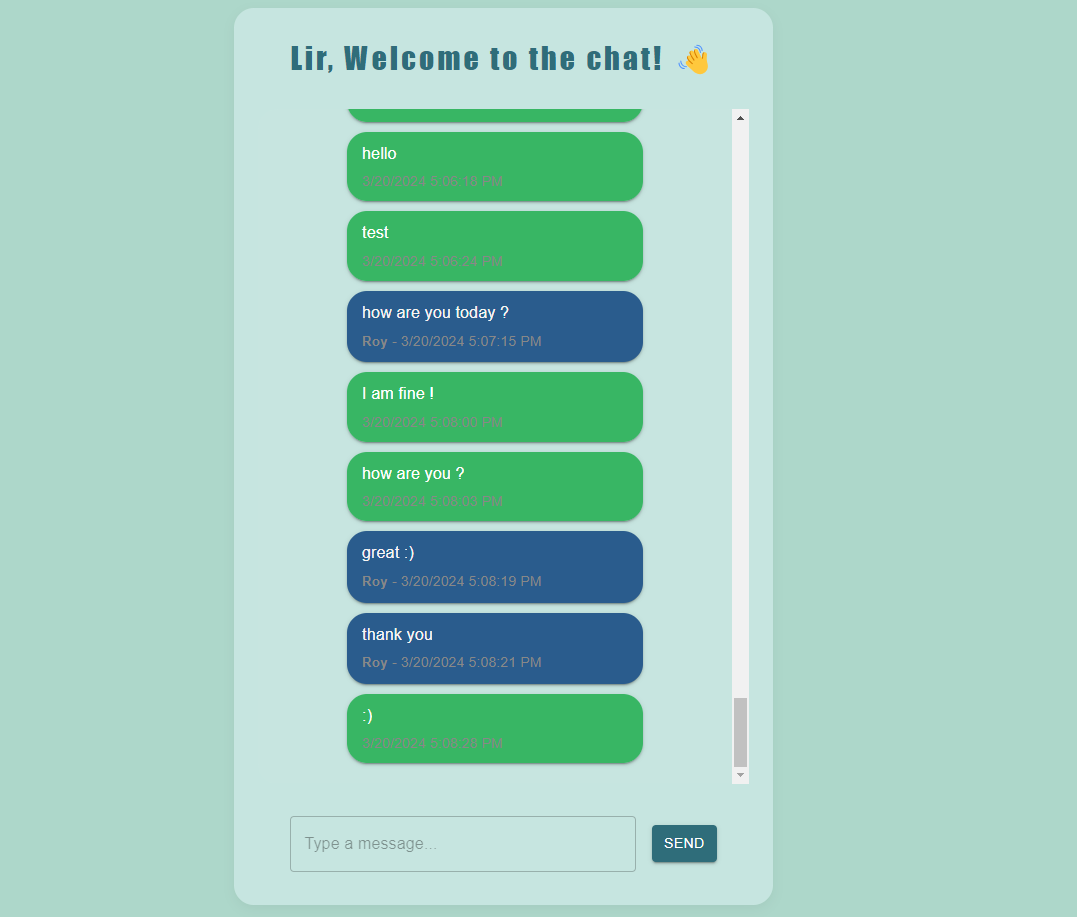
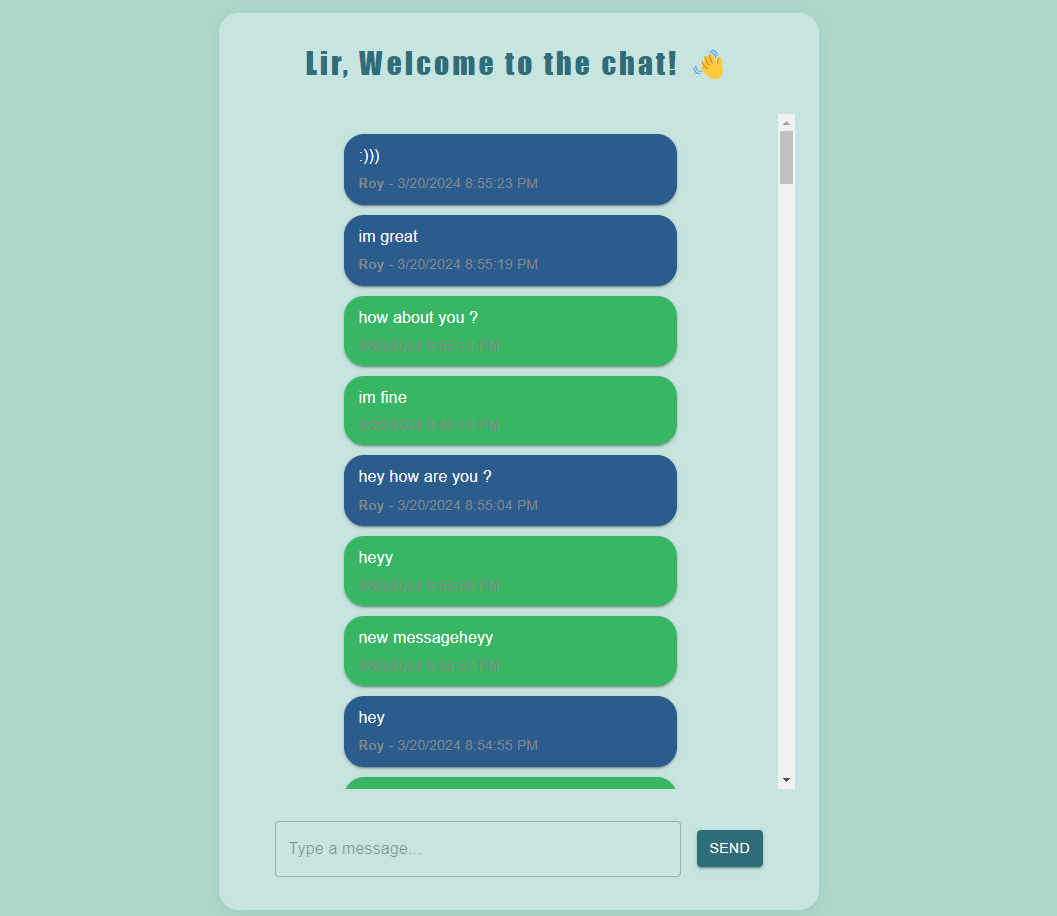
chat.tsx changes

Changed region(s): [[0.1873, 0.0, 0.7805, 1.0], [0.281, 0.8865, 0.4059, 0.9476]]

diff --git a/src/pages/chat/Chat.1.tsx b/src/pages/chat/Chat.1.tsx
@@ -7,36 +7,25 @@ import {
   Stack,
   Container,
 } from "@mui/material";
-import { useState, useEffect } from "react";
+import { useState } from "react";
 import { useLocation } from "react-router-dom";
-import "./ChatStyles.scss";
 import { useWebSocket } from "../../components/hooks/useWebSocket";
-import {
-  checkNotificationPermission,
-  showNotification,
-} from "../../components/helpers/notifications";
+import { showNotification } from "../../components/helpers/notifications";
 import DynamicMessages from "../../components/DynamicMessages";
 
-let limit = 20;
-let offset = 0;
-
-const Chat = () => {
-  const [messages, setMessages] = useState<Message[]>([]);
+export const Chat = () => {
   const [newMessage, setNewMessage] = useState("");
+  const messages = useFetchMessages(); // Using the custom hook for fetching messages
 
-  //gives you access to the current location object
   const location = useLocation();
-  const name = location.state?.name || "Unknown"; //extract the name
+  const name = location.state?.name || "Unknown"; // Extract the name
 
-  const onNewMessage = (message: Message) => {
+  const { sendMessage } = useWebSocket((message: Message) => {
     setMessages((prevMessages) => [message, ...prevMessages]);
-    // Check if the document is not in focus
     if (document.visibilityState === "hidden") {
       showNotification(message);
     }
-  };
-
-  const { sendMessage } = useWebSocket(onNewMessage);
+  });
 
   const handleSendMessage = () => {
     let newTypedMsg: NewMessage = {
@@ -45,9 +34,8 @@ const Chat = () => {
       timestamp: new Date(),
     };
     sendMessage(newTypedMsg);
-    setNewMessage("");
   };
-
+  /*
   useEffect(() => {
     const fetchMessages = async () => {
       try {
@@ -58,11 +46,11 @@ const Chat = () => {
         console.error("Failed to fetch messages:", error);
       }
     };
-
+ 
     fetchMessages();
     checkNotificationPermission();
   }, []);
-
+*/
   return (
     <Box className="big-box">
       <Box className="big-chat-box">
@@ -115,5 +103,3 @@ const Chat = () => {
     </Box>
   );
 };
-
-export default Chat;

diff --git a/src/server/index.ts b/src/server/index.ts
@@ -3,7 +3,7 @@ import cors from 'cors';
 import routes from './routes'; 
 import http from 'http';
 import { Server } from 'socket.io';
-import { saveMessage, getAllMessages } from '../server/config/db'; // Adjust path as necessary
+import { saveMessage, getAllMessages, getPageOfMessages } from '../server/config/db'; // Adjust path as necessary
 import dotenv from 'dotenv';
 
 const app = express();
@@ -28,12 +28,12 @@ server.listen(PORT, () => {
 
 io.on('connection', async (socket) => {
     console.log('A user connected');
-    try {
-        const messages = await getAllMessages();
-        io.emit('allMessages', messages)
-    } catch (err) {
-        console.log(err)
-    }
+    // try {
+    //     const messages = await getAllMessages();
+    //     io.emit('allMessages', messages)
+    // } catch (err) {
+    //     console.log(err)
+    // }
 
     socket.on('message', async (message) => {
         //console.log("Message received: ", message);
@@ -45,7 +45,19 @@ io.on('connection', async (socket) => {
         console.log('A user disconnected');
     });
 });
-app.get('/api/messages', async (req, res) => {
-    const messages = await getAllMessages();
+
+//eg: http://127.0.0.1:5173/api/messages&limit=20&offset=0
+app.get('/api/messages', async (req, res) => { // Optional params limit and offset
+    let messages;
+
+
+    if (typeof req.query.limit === 'string' && typeof req.query.offset === 'string') {
+        const limit = parseInt(req.query.limit, 10);
+        const offset = parseInt(req.query.offset, 10);
+
+        messages = getPageOfMessages(limit, offset)
+    }
+    
+    messages = await getAllMessages();
     res.json(messages);
 });

diff --git a/src/components/hooks/useWebSocket.ts b/src/components/hooks/useWebSocket.ts
@@ -1,17 +1,14 @@
 import { useEffect } from 'react';
 import io from 'socket.io-client';
-import { Message } from '../helpers/Message'; 
+import { Message, NewMessage } from '../helpers/Message'; 
 
 const socket = io("http://localhost:3002", {
   transports: ["websocket"], 
 });
-// Exclude 'id' for outgoing messages
-type NewMessage = Omit<Message, 'id'>; 
 
-export const useWebSocket = (onNewMessage: (message: Message) => void, onReceiveAllMessages: (messages: Message[]) => void) => {
+export const useWebSocket = (onNewMessage: (message: Message) => void) => {
   useEffect(() => {
     socket.on("message", onNewMessage);
-    // socket.on("allMessages", onReceiveAllMessages)
 
     // Cleanup on unmount
     return () => {

diff --git a/src/server/config/db.ts b/src/server/config/db.ts
@@ -29,7 +29,7 @@ await client.connect();
   
 
 export const getAllMessages = async () => {
-    const query = `SELECT * FROM messages ORDER BY timestamp ASC;`;
+    const query = `SELECT * FROM messages ORDER BY timestamp DESC;`;
     try {
         const res = await client.query(query);
         return res.rows;
@@ -38,6 +38,11 @@ export const getAllMessages = async () => {
         return [];
     }
 };
+// get chunk of messages if needed - through scrolling 
+export const getPageOfMessages = async (from:number, to:number) => {
+
+
+}
 /*
 const db = drizzle(client);
 

diff --git a/src/components/helpers/notifications.tsx b/src/components/helpers/notifications.tsx
@@ -14,3 +14,14 @@ export const showNotification = (message: Message) => {
     );
   }
 };
+
+export const checkNotificationPermission = () => {
+  // Log the current notification permission status
+  console.log(`Notification permission: ${Notification.permission}`);
+  // Request permission if not already granted
+  if ("Notification" in window && Notification.permission !== "granted") {
+    Notification.requestPermission().then((permission) => {
+      console.log(`New Notification permission: ${permission}`);
+    });
+  }
+};

diff --git a/src/components/DynamicMessages.tsx b/src/components/DynamicMessages.tsx
@@ -1,0 +1,23 @@
+import { Box } from "@mui/material";
+import MessageBox from "./helpers/MessageBox";
+import { Message } from "./helpers/Message";
+
+export default function DynamicMessages({
+  messages,
+  name,
+}: {
+  messages: Message[];
+  name: string;
+}) {
+  return (
+    <Box className="message-box">
+      {messages.map(
+        (
+          message //TODO add key message.id
+        ) => (
+          <MessageBox key={message.id} message={message} currentUser={name} />
+        )
+      )}
+    </Box>
+  );
+}

diff --git a/src/App.tsx b/src/App.tsx
@@ -1,6 +1,6 @@
 import "./assets/styles/App.scss";
 import { BrowserRouter, Route, Routes } from "react-router-dom";
-import Chat from "./pages/chat/Chat";
+import Chat from "./pages/chat/Chat.tsx";
 import Register from "./pages/register/Register";
 import { Box } from "@mui/material";
 import useDarkMode from "./components/hooks/useDarkMode.ts";

diff --git a/src/components/helpers/Message.ts b/src/components/helpers/Message.ts
@@ -5,3 +5,4 @@ export interface Message {
     timestamp: Date; 
   }
   
+  export type NewMessage = Omit<Message, 'id'>; 
